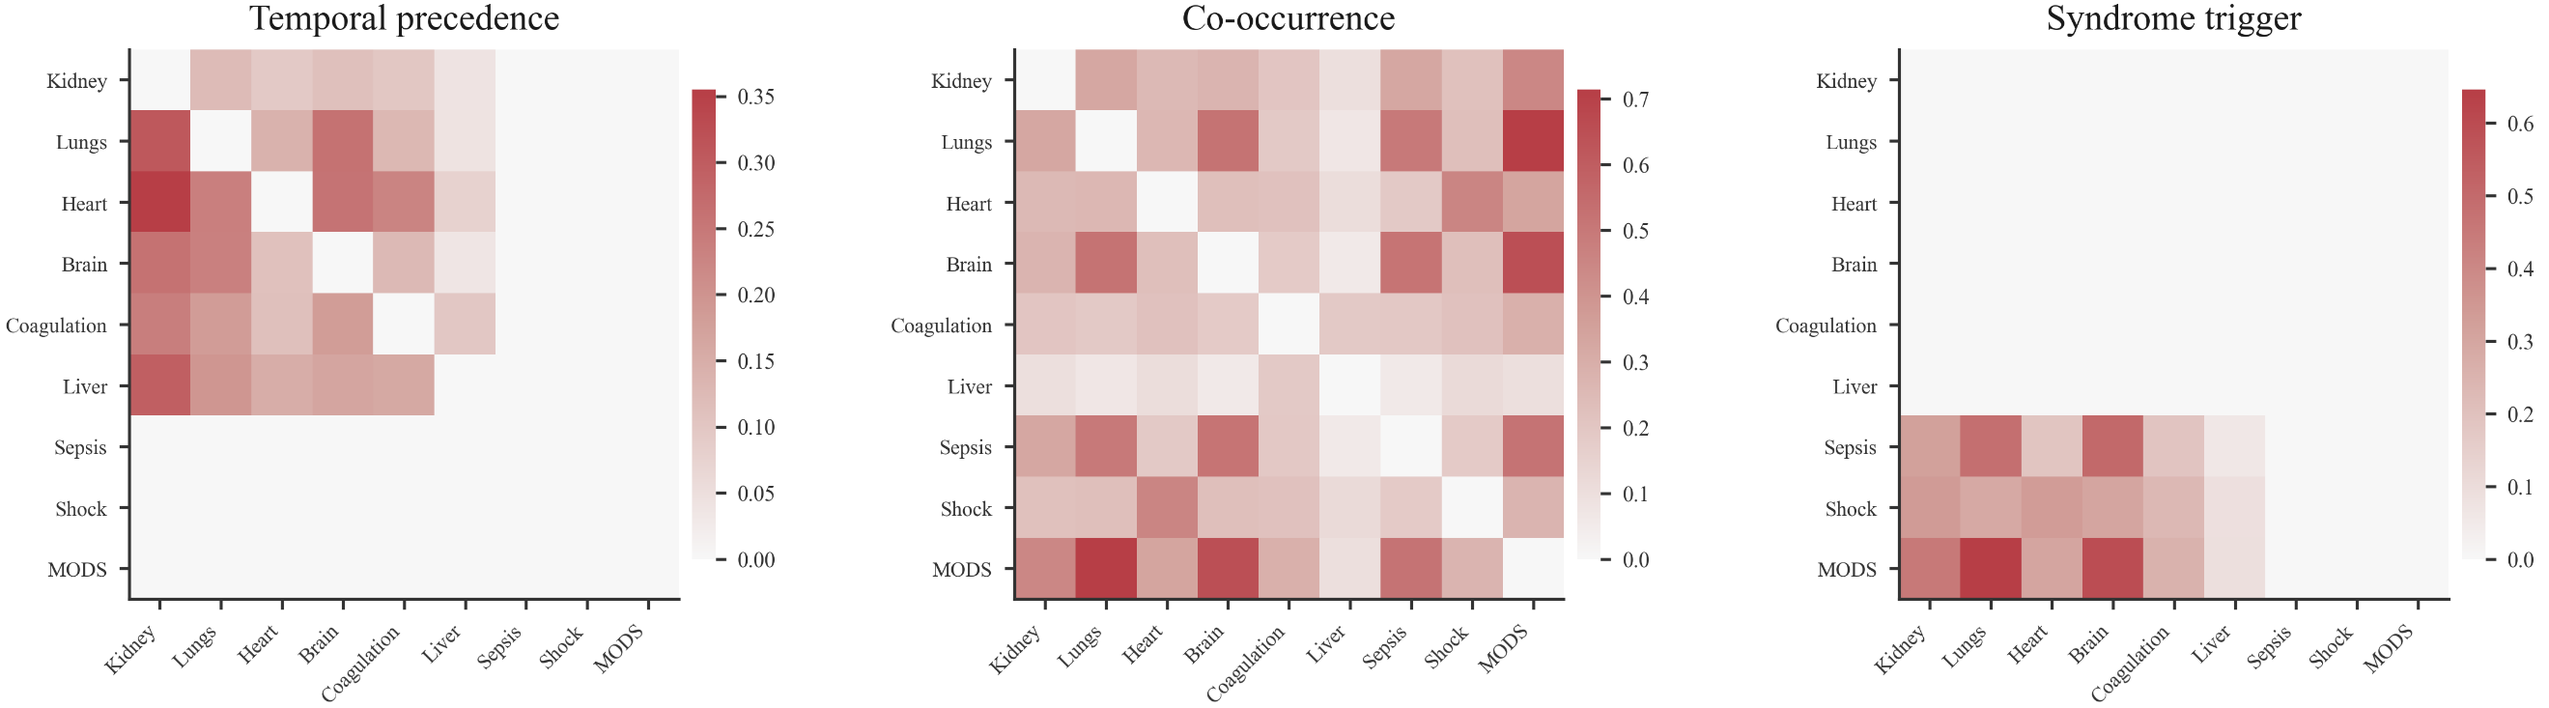
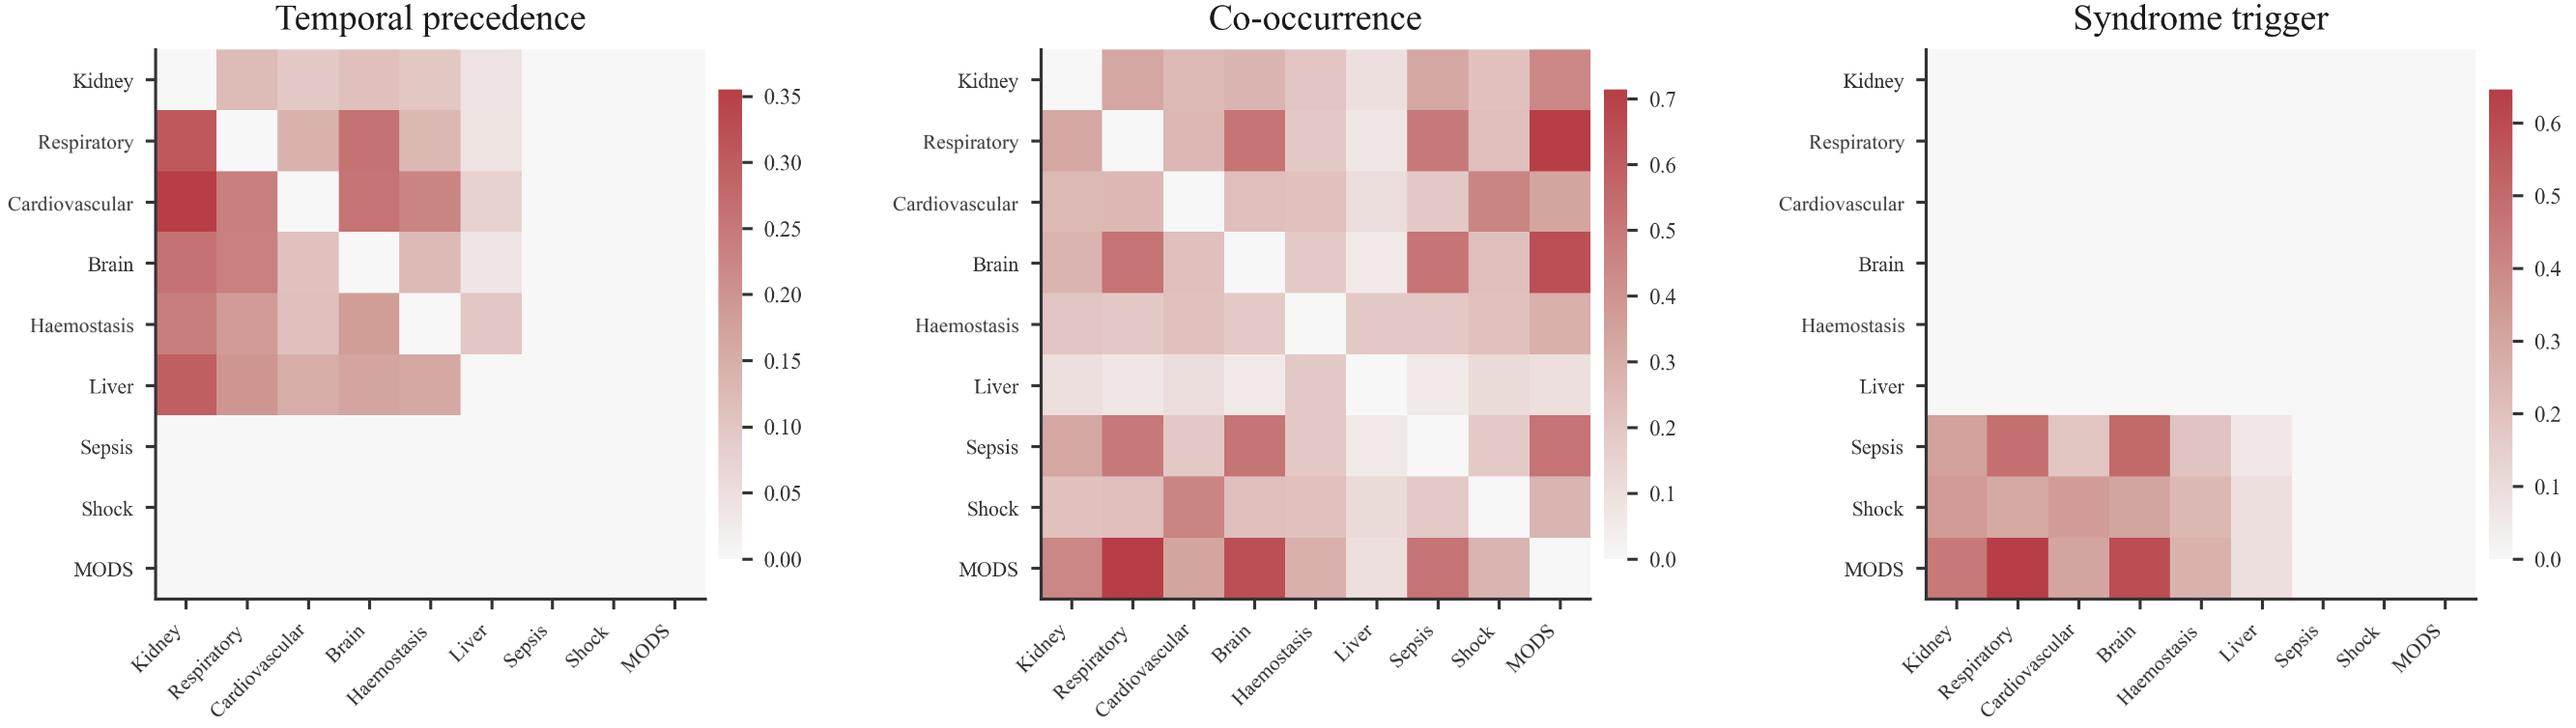
Align organ-system names with SOFA-2 and restore the graph build script
- Use the SOFA-2 organ-system names throughout: respiratory, cardiovascular
  and haemostasis (previously lung, heart and coagulation); the six input
  channels are described as SOFA-2 domain scores. ORGANS, the onset-table
  column names, documentation, results tables and figures are updated.
  Numerical behaviour is unchanged.
- Update the manuscript figures that carry organ-system labels.
- Add scripts/build/build_sofae_graph.py, which the README and the
  integration test use; the root-level build/ ignore rule no longer
  matches scripts/build/.

diff --git a/scripts/build/build_sofae_graph.py b/scripts/build/build_sofae_graph.py
@@ -1,0 +1,62 @@
+"""Build and freeze the SOFAE graph.
+
+Input: a CSV or Parquet table with one row per patient and the onset time of
+each event in the columns
+
+    kidney, respiratory, cardiovascular, brain, haemostasis, liver, sepsis, septic_shock
+
+(empty when the event did not occur). Onset times are either datetimes
+(``--datetime``) or hours on a common time axis within each patient. MODS
+onset is derived as the second earliest organ failure.
+
+Output: the graph file (.npz) used by ``train_sepsis_most.py`` and its edge
+list (.csv).
+
+    python scripts/build/build_sofae_graph.py --onsets onsets.parquet --out sofae_graph.npz
+"""
+from __future__ import annotations
+
+import argparse
+from pathlib import Path
+
+import pandas as pd
+
+from sepsis_most.constants import ORGANS
+from sepsis_most.graph import build_sofae_graph
+
+INPUT_COLUMNS = list(ORGANS) + ["sepsis", "septic_shock"]
+
+
+def main() -> None:
+    ap = argparse.ArgumentParser(description=__doc__, formatter_class=argparse.RawDescriptionHelpFormatter)
+    ap.add_argument("--onsets", required=True, help="CSV or Parquet table of event onset times")
+    ap.add_argument("--out", required=True, help="output graph file (.npz)")
+    ap.add_argument("--datetime", action="store_true", help="parse onset columns as datetimes")
+    ap.add_argument("--min-support", type=int, default=50, help="minimum supporting patients per edge")
+    ap.add_argument("--dim", type=int, default=8, help="embedding dimension")
+    args = ap.parse_args()
+
+    path = Path(args.onsets)
+    table = pd.read_parquet(path) if path.suffix in (".parquet", ".pq") else pd.read_csv(path)
+    missing = [c for c in INPUT_COLUMNS if c not in table.columns]
+    if missing:
+        raise SystemExit(f"missing columns: {missing}")
+    table = table[INPUT_COLUMNS].copy()
+    if args.datetime:
+        for c in INPUT_COLUMNS:
+            table[c] = pd.to_datetime(table[c], errors="coerce")
+
+    graph = build_sofae_graph(table, min_support=args.min_support, dim=args.dim)
+    out = Path(args.out)
+    out.parent.mkdir(parents=True, exist_ok=True)
+    graph.save(out)
+    edges = graph.edges()
+    edges.to_csv(out.with_suffix(".edges.csv"), index=False)
+    print(f"patients: {len(table):,}")
+    print("node counts:", dict(zip(graph.nodes, graph.relations.counts.tolist())))
+    print(f"edges with >= {args.min_support} supporting patients: {len(edges)}")
+    print(f"saved {out} and {out.with_suffix('.edges.csv')}")
+
+
+if __name__ == "__main__":
+    main()

diff --git a/src/sepsis_most/objectives/joint.py b/src/sepsis_most/objectives/joint.py
@@ -3,7 +3,7 @@
     L = L_cr + sum_{a in A} lambda_a L_a,   A = {syn, rank, lb, spec}
 
 The main term L_cr is the competing-risks negative log likelihood summed over
-the six organs (Eq. 19). The four auxiliary terms are the binary cross entropy
+the six organ systems (Eq. 19). The four auxiliary terms are the binary cross entropy
 of the three adverse events (L_syn, Eq. 20), the ranking loss on the 7-day CIF
 (L_rank, Eq. 21), the load-balancing term of the router (L_lb, Eq. 22) and the
 expert specialisation loss (L_spec, Eq. 23).
@@ -40,7 +40,7 @@ def joint_objective(out, cause, ebin, atrisk, etime, evt, events, sofa_mean,
     cause, ebin, atrisk, evt, etime
                (B, 6) organ labels; see docs/DATA_FORMAT.md
     events     (B, 3) float adverse-event labels (ICU death, septic shock, MODS)
-    sofa_mean  (B, 6) mean organ SOFA subscores over the observation window
+    sofa_mean  (B, 6) mean SOFA-2 domain scores over the observation window
     """
     nll = sum(cr_nll(out["cr_logits"][:, k], cause[:, k], ebin[:, k], atrisk[:, k])
               for k in range(N_ORGANS))

diff --git a/src/sepsis_most/training/trainer.py b/src/sepsis_most/training/trainer.py
@@ -1,7 +1,7 @@
 """Optimisation of one Sepsis-MOST network.
 
 All loss terms are optimised jointly with AdamW under a cosine learning-rate
-schedule. After every epoch the mean cause-specific C-index of the six organs
+schedule. After every epoch the mean cause-specific C-index of the six organ systems
 is computed on the validation split, the best state is kept, and training stops
 when the validation C-index has not improved for ``patience`` epochs.
 """
@@ -85,7 +85,7 @@ def train_network(seed: int, Xn: np.ndarray, Sn: np.ndarray, data: CohortTensors
             if cfg.augmentation.jitter > 0:
                 xb, sb = jitter(xb, sb, cfg.augmentation.jitter)
             out = model(xb, sb)
-            sofa_mean = Xt[bb][:, :, :N_ORGANS].mean(1)              # un-augmented SOFA subscores
+            sofa_mean = Xt[bb][:, :, :N_ORGANS].mean(1)              # un-augmented SOFA-2 domain scores
             loss = joint_objective(out, cause[bb], ebin[bb], atr[bb], etime[bb], evt[bb],
                                    events[bb], sofa_mean, cfg.loss)
             opt.zero_grad()

diff --git a/src/sepsis_most/objectives/specialisation.py b/src/sepsis_most/objectives/specialisation.py
@@ -1,7 +1,7 @@
 """Expert specialisation loss (manuscript Eq. 23).
 
-The target distribution softmax(tau * sev) puts most weight on the organs with
-the highest mean SOFA subscore in the observation window. The loss is
+The target distribution softmax(tau * sev) puts most weight on the organ systems
+with the highest mean SOFA-2 domain score in the observation window. The loss is
 KL(target || route), where route is the mean routing distribution of the
 patient over the window; it aligns expert k with organ k.
 """
@@ -11,6 +11,6 @@ import torch.nn.functional as F
 
 
 def specialisation_loss(route, sofa_mean, tau: float = 2.0):
-    """route: (B, 6) mean routing probabilities; sofa_mean: (B, 6) mean organ SOFA subscores."""
+    """route: (B, 6) mean routing probabilities; sofa_mean: (B, 6) mean SOFA-2 domain scores."""
     target = F.softmax(sofa_mean * tau, dim=-1)
     return F.kl_div(route.clamp_min(1e-8).log(), target, reduction="batchmean")

diff --git a/src/sepsis_most/constants.py b/src/sepsis_most/constants.py
@@ -2,7 +2,7 @@
 from __future__ import annotations
 
 #: Organ systems, in the order used by every organ-indexed array.
-ORGANS = ("kidney", "lung", "heart", "brain", "coagulation", "liver")
+ORGANS = ("kidney", "respiratory", "cardiovascular", "brain", "haemostasis", "liver")
 N_ORGANS = len(ORGANS)
 
 #: Adverse events predicted by the three adverse-event heads, in output order.
@@ -14,7 +14,7 @@ SYNDROME_NODES = ("sepsis", "septic_shock", "mods")
 #: The nine SOFAE graph nodes: six organ failures followed by three syndromes.
 GRAPH_NODES = ORGANS + SYNDROME_NODES
 
-#: The first six temporal channels are the organ SOFA subscores (in ``ORGANS``
+#: The first six temporal channels are the SOFA-2 domain scores (in ``ORGANS``
 #: order) and the seventh is the total SOFA score. These channels keep their
 #: native scale and are not standardised.
 N_RAW_CHANNELS = 7

diff --git a/src/sepsis_most/graph/sofae.py b/src/sepsis_most/graph/sofae.py
@@ -89,8 +89,8 @@ def build_sofae_graph(onsets: pd.DataFrame, min_support: int = 50, dim: int = 8)
     Parameters
     ----------
     onsets
-        One row per patient with the columns ``kidney``, ``lung``, ``heart``,
-        ``brain``, ``coagulation``, ``liver``, ``sepsis`` and ``septic_shock``
+        One row per patient with the columns ``kidney``, ``respiratory``, ``cardiovascular``,
+        ``brain``, ``haemostasis``, ``liver``, ``sepsis`` and ``septic_shock``
         holding onset times (datetime, or hours on a common time axis within
         each patient); missing values mean the event did not occur. A ``mods``
         column, if absent, is derived as the second earliest organ failure.

diff --git a/tests/unit/test_graph.py b/tests/unit/test_graph.py
@@ -7,8 +7,8 @@ from sepsis_most.graph.relations import add_mods_onset, prune, relation_matrices
 
 
 def test_mods_onset_is_second_organ_failure():
-    table = pd.DataFrame({"kidney": [5.0, np.nan], "lung": [2.0, 3.0], "heart": [9.0, np.nan],
-                          "brain": [np.nan] * 2, "coagulation": [np.nan] * 2, "liver": [np.nan] * 2})
+    table = pd.DataFrame({"kidney": [5.0, np.nan], "respiratory": [2.0, 3.0], "cardiovascular": [9.0, np.nan],
+                          "brain": [np.nan] * 2, "haemostasis": [np.nan] * 2, "liver": [np.nan] * 2})
     out = add_mods_onset(table)
     assert out["mods"].iloc[0] == 5.0
     assert np.isnan(out["mods"].iloc[1])

diff --git a/src/sepsis_most/evaluation/discrimination/concordance.py b/src/sepsis_most/evaluation/discrimination/concordance.py
@@ -3,7 +3,7 @@
 For one organ, each patient a with an observed failure is compared with every
 at-risk patient whose event or censoring time is later. A pair is concordant
 when patient a has the higher predicted 7-day CIF, and ties count one half.
-The mean of this index over the six organs on the validation split is the
+The mean of this index over the six organ systems on the validation split is the
 early-stopping criterion.
 """
 from __future__ import annotations

diff --git a/src/sepsis_most/model/sepsis_most.py b/src/sepsis_most/model/sepsis_most.py
@@ -70,7 +70,7 @@ class SepsisMOST(nn.Module):
         self.event_head = nn.Linear(d_model + d_static, len(ADVERSE_EVENTS))
 
     def graph_state(self, x):
-        """Graph vector e_t of each hour (Eq. 8): SOFA subscores / 4 times the organ embeddings."""
+        """Graph vector e_t of each hour (Eq. 8): SOFA-2 domain scores / 4 times the organ embeddings."""
         sofa = x[:, :, :N_ORGANS].clamp(0, 4) / 4.0
         return sofa @ self.graph_organ_emb
 

diff --git a/src/sepsis_most/training/data.py b/src/sepsis_most/training/data.py
@@ -77,7 +77,7 @@ def stratified_split(death, seed: int = 42, fractions=(0.70, 0.15, 0.15)):
 class Standardiser:
     """z-score standardisation fitted on the training split.
 
-    The first ``N_RAW_CHANNELS`` temporal channels (organ SOFA subscores and
+    The first ``N_RAW_CHANNELS`` temporal channels (SOFA-2 domain scores and
     total SOFA) keep their native scale.
     """
 

diff --git a/src/sepsis_most/training/config.py b/src/sepsis_most/training/config.py
@@ -42,7 +42,7 @@ class AugmentConfig:
 class DataConfig:
     split_seed: int = 42
     split_fractions: tuple = (0.70, 0.15, 0.15)   # train, validation, internal test
-    n_raw_channels: int = 7             # SOFA subscores and total SOFA are not standardised
+    n_raw_channels: int = 7             # SOFA-2 domain scores and total SOFA are not standardised
 
 
 @dataclass

diff --git a/README.md b/README.md
@@ -17,7 +17,7 @@
   <img src="assets/figures/sepsis-most-framework.png" width="100%" alt="Sepsis-MOST study design and model architecture">
 </p>
 
-Developed in collaboration with **Peking University People's Hospital**, Sepsis-MOST is a clinical forecasting framework for modelling how sepsis progresses across interconnected organ systems. The model uses longitudinal intensive-care records around the onset of sepsis to estimate the short-term risk of kidney, lung, cardiovascular, neurological, coagulation and liver failure while jointly predicting septic shock, multiple organ dysfunction syndrome and ICU mortality.
+Developed in collaboration with **Peking University People's Hospital**, Sepsis-MOST is a clinical forecasting framework for modelling how sepsis progresses across interconnected organ systems. The model uses longitudinal intensive-care records around the onset of sepsis to estimate the short-term risk of kidney, respiratory, cardiovascular, brain, haemostatic and liver failure while jointly predicting septic shock, multiple organ dysfunction syndrome and ICU mortality.
 
 The project is motivated by a practical limitation of conventional bedside assessment. Scores such as SOFA describe the organ dysfunction that is already present, but they do not directly indicate which organ is most likely to fail next, when that failure may occur or how deterioration in one organ changes the risk of deterioration elsewhere. Existing prediction systems also tend to focus on a single outcome or build separate models for each endpoint, leaving the physiological dependence between organ systems largely unused.
 
@@ -88,7 +88,7 @@ This repository contains the source code used to construct and train Sepsis-MOST
 
 Sepsis is not a single static condition. Its clinical course is shaped by a sequence of interacting organ injuries that may stabilise, recover or progress toward shock, multiple organ dysfunction and death. A useful prognostic system must therefore do more than produce one mortality score. It should preserve the identity of individual organ systems, recognise their shared physiological context and represent the fact that some outcomes prevent others from being observed.
 
-Sepsis-MOST formulates this problem as nine related tasks. Six tasks estimate the cumulative incidence of new organ failure over the following seven days, and three tasks estimate the probability of septic shock, MODS and ICU mortality over the same horizon. The organ tasks are modelled separately because failure of the kidney, lungs, heart, brain, coagulation system and liver has different predictors and clinical consequences. They are trained together because the deterioration of these systems is physiologically connected.
+Sepsis-MOST formulates this problem as nine related tasks. Six tasks estimate the cumulative incidence of new organ failure over the following seven days, and three tasks estimate the probability of septic shock, MODS and ICU mortality over the same horizon. The organ tasks are modelled separately because kidney, respiratory, cardiovascular, brain, haemostatic and liver failure have different predictors and clinical consequences. They are trained together because the deterioration of these systems is physiologically connected.
 
 The prediction landmark is fixed at six hours after sepsis onset. Information is collected from the preceding 12-hour window, spanning six hours before to six hours after onset. Events already present at the landmark are masked for the corresponding task, while the patient can still contribute to other outcomes that have not yet occurred. This task-specific landmarking prevents an existing event from being presented as a future prediction and allows the model to retain clinically informative patients rather than removing an entire admission because one endpoint is already present.
 
@@ -106,7 +106,7 @@ For every organ, ICU death before organ failure is treated as a competing event.
 
 ## Clinical scope
 
-The prediction space covers six organ systems routinely represented in sepsis severity assessment. Kidney failure is defined through renal dysfunction and renal-replacement criteria; lung failure through severe oxygenation impairment under ventilatory support; cardiovascular failure through advanced vasopressor or mechanical-support requirements; neurological failure through severe impairment of consciousness; coagulation failure through thrombocytopenia; and liver failure through marked hyperbilirubinaemia.
+The prediction space covers six organ systems routinely represented in sepsis severity assessment. Kidney failure is defined through renal dysfunction and renal-replacement criteria; respiratory failure through severe oxygenation impairment under ventilatory support; cardiovascular failure through advanced vasopressor or mechanical-support requirements; brain failure through severe impairment of consciousness; haemostatic failure through thrombocytopenia; and liver failure through marked hyperbilirubinaemia.
 
 The three adverse-event outputs represent clinically consequential states that often trigger escalation of care. Septic shock captures circulatory and metabolic deterioration, MODS represents concurrent failure of multiple organs, and ICU mortality provides a terminal outcome shared across the organ-specific competing-risk tasks. These outputs are estimated jointly but remain distinct, allowing performance and calibration to be assessed separately for each endpoint.
 
@@ -194,9 +194,9 @@ Evaluation is organised around four questions: whether the model separates highe
 
 ### Internal organ-failure prediction
 
-In the held-out MIMIC-IV test set, the mean organ-level C-index reported in the current manuscript is 0.795. Discrimination is strongest for liver failure and coagulation failure, with C-indices of 0.905 and 0.877. Kidney and cardiovascular failure reach 0.777 and 0.761, while lung and neurological failure are more difficult, at 0.730 and 0.723.
+In the held-out MIMIC-IV test set, the mean organ-level C-index reported in the current manuscript is 0.795. Discrimination is strongest for liver failure and haemostatic failure, with C-indices of 0.905 and 0.877. Kidney and cardiovascular failure reach 0.777 and 0.761, while respiratory and brain failure are more difficult, at 0.730 and 0.723.
 
-Performance is also assessed at multiple horizons rather than only at the seven-day endpoint. Across organs, discrimination is highest near the earlier prediction windows and generally declines as the horizon becomes more distant. This pattern is especially relevant for neurological failure, where the available onset-centred record contains less information about events occurring several days later.
+Performance is also assessed at multiple horizons rather than only at the seven-day endpoint. Across organs, discrimination is highest near the earlier prediction windows and generally declines as the horizon becomes more distant. This pattern is especially relevant for brain failure, where the available onset-centred record contains less information about events occurring several days later.
 
 <p align="center">
   <img src="assets/figures/internal-organ-roc-pr.png" width="100%" alt="Internal organ-failure ROC and precision-recall analysis">
@@ -230,7 +230,7 @@ For the three adverse events, calibration slopes are reported near the ideal val
 
 ### External transfer
 
-The frozen model is applied directly to eICU-CRD and PKUPH. Brain failure was not evaluated at PKUPH because numeric Glasgow Coma Scale scores were rarely recorded there, so organ discrimination is compared over the five organs evaluated in all three cohorts: the mean C-index is 0.810 internally, 0.719 in eICU-CRD and 0.736 at PKUPH. Adverse-event discrimination transfers more consistently: the reported AUROCs for ICU mortality, septic shock and MODS are 0.811, 0.904 and 0.856 in eICU-CRD and 0.814, 0.865 and 0.832 at PKUPH, where MODS is counted over the five evaluated organs.
+The frozen model is applied directly to eICU-CRD and PKUPH. Brain failure was not evaluated at PKUPH because numeric Glasgow Coma Scale scores were rarely recorded there, so organ discrimination is compared over the five organ systems evaluated in all three cohorts: the mean C-index is 0.810 internally, 0.719 in eICU-CRD and 0.736 at PKUPH. Adverse-event discrimination transfers more consistently: the reported AUROCs for ICU mortality, septic shock and MODS are 0.811, 0.904 and 0.856 in eICU-CRD and 0.814, 0.865 and 0.832 at PKUPH, where MODS is counted over the five evaluated organ systems.
 
 Transfer is not uniform across organ systems. Differences in vasopressor documentation, neurological assessment, missingness, clinical workflow and event prevalence can change both the available predictors and the operational meaning of an endpoint. External results should therefore be read at the task level rather than reduced to a single average.
 
@@ -243,7 +243,7 @@ Transfer is not uniform across organ systems. Differences in vasopressor documen
 <p align="center">
   <img src="assets/figures/pkuph-organ-roc-pr.png" width="100%" alt="Organ-failure ROC and precision-recall curves in PKUPH">
   <br>
-  <sub>Organ-failure discrimination for the five organs evaluated at PKUPH, with 95% bootstrap confidence bands.</sub>
+  <sub>Organ-failure discrimination for the five organ systems evaluated at PKUPH, with 95% bootstrap confidence bands.</sub>
 </p>
 
 <p align="center">
@@ -407,6 +407,6 @@ The repository does not include raw ICU records, patient-level derivatives, prot
 
 This is a retrospective multicohort modelling study, not a prospective clinical trial. The reported results establish performance within the analysed datasets but do not establish clinical effectiveness, workflow benefit or patient-outcome improvement. Decision thresholds, alert burden, treatment response and prospective transportability require separate evaluation.
 
-Endpoint harmonisation is also imperfect across databases. In the PKUPH cohort, numeric Glasgow Coma Scale scores were rarely recorded, so brain failure was not evaluated and MODS was counted over the other five organs. Cardiovascular failure at PKUPH depends on vasopressor rates reconstructed from order totals. These endpoints are not fully equivalent to their MIMIC-IV and eICU-CRD counterparts and should be interpreted as cohort-specific operationalisations.
+Endpoint harmonisation is also imperfect across databases. In the PKUPH cohort, numeric Glasgow Coma Scale scores were rarely recorded, so brain failure was not evaluated and MODS was counted over the other five organ systems. Cardiovascular failure at PKUPH depends on vasopressor rates reconstructed from order totals. These endpoints are not fully equivalent to their MIMIC-IV and eICU-CRD counterparts and should be interpreted as cohort-specific operationalisations.
 
 Sepsis-MOST is therefore presented as a research framework for organ-resolved prognosis, multicohort validation and model interpretation. It is not a medical device and is not intended for direct clinical decision-making in its current form.
